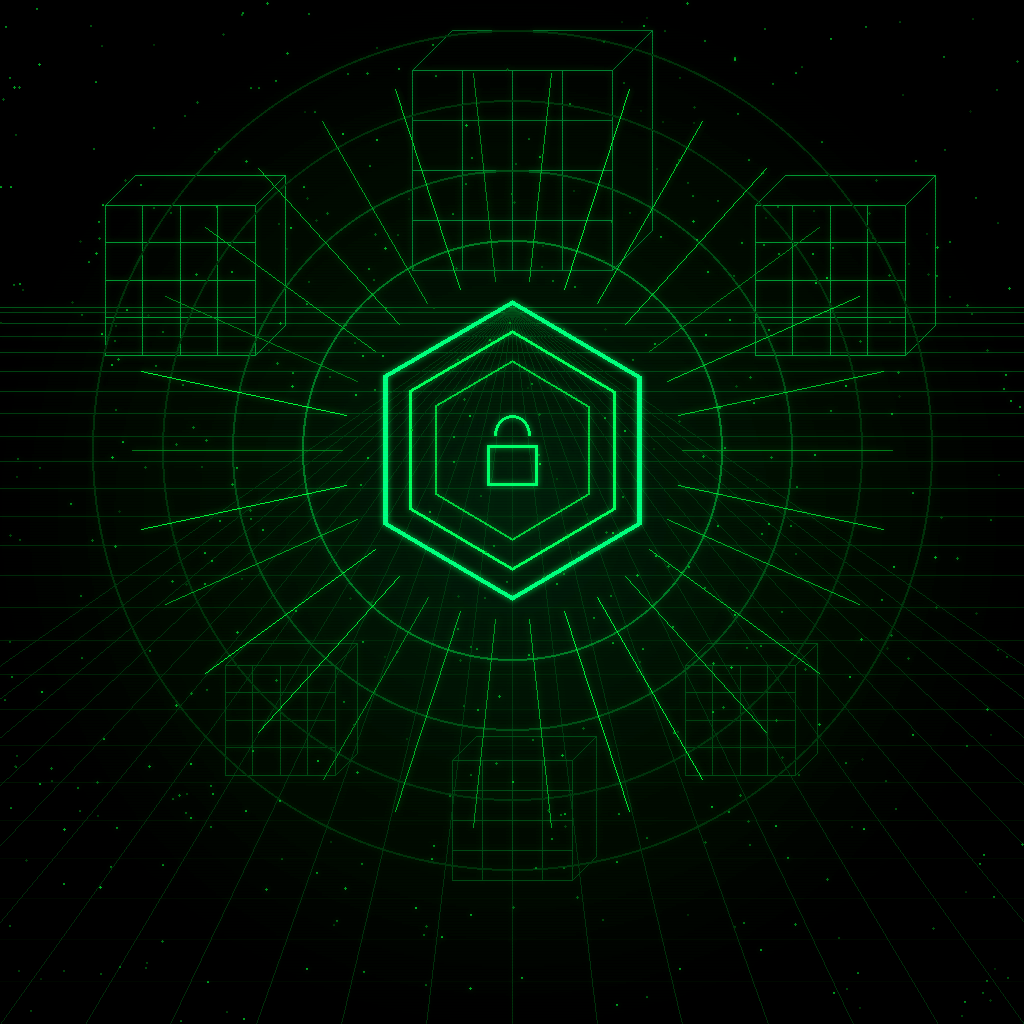
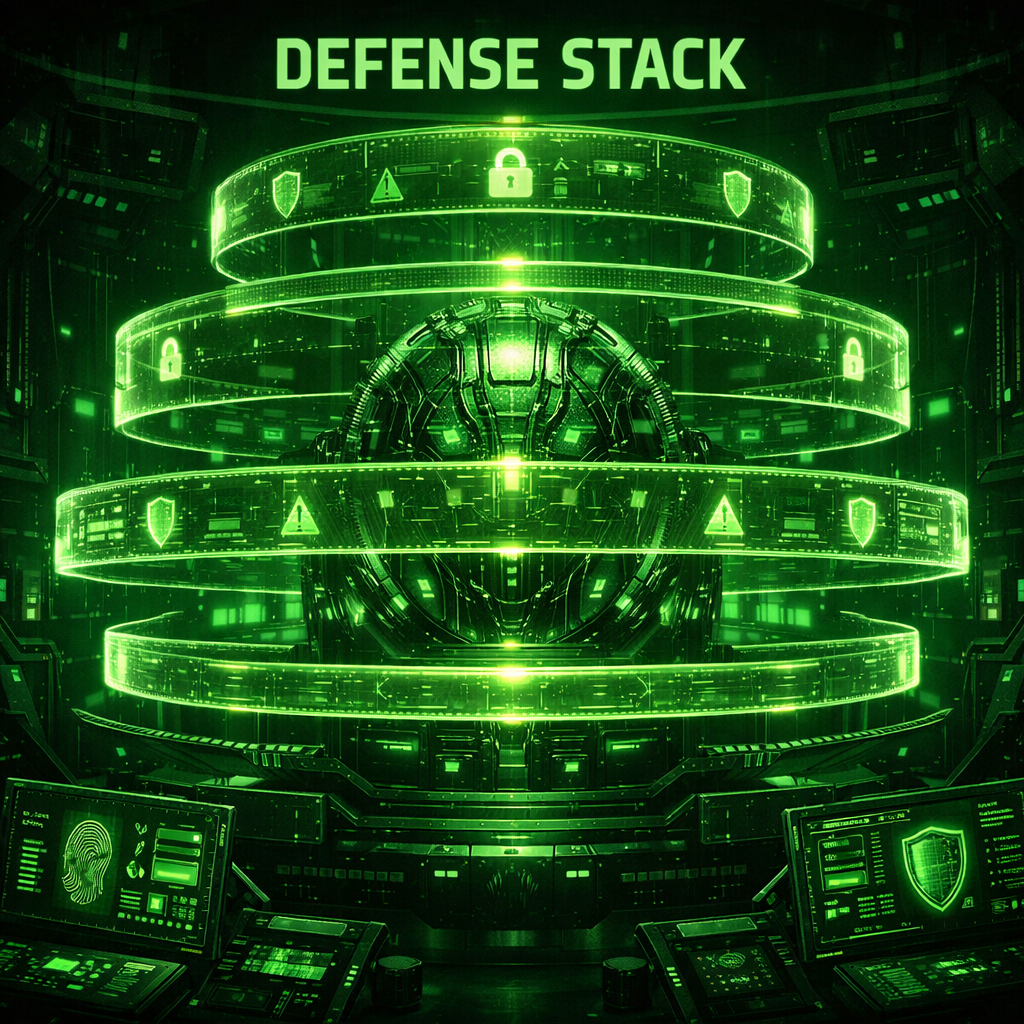
Add Axios supply chain attack, hero images, deeper paper insights
Part 9a:
- Added detailed Axios npm supply chain attack (March 2026) to Threat 3
- Added slopsquatting and package hallucination research references
- Updated Squad framework link to bradygaster/squad upstream
- Replaced hero image with user-provided ChatGPT-generated art

Part 9b:
- Added Axios attack analysis to Layer 3 (CI gates section)
- Explained what prerelease guard catches vs what workspace integrity catches
- Added OIDC provenance checking as recommended pattern
- Added StepSecurity and Malwarebytes references
- Replaced hero image with user-provided ChatGPT-generated art

diff --git a/_posts/2026-04-02-scaling-ai-part9-prime-directive.md b/_posts/2026-04-02-scaling-ai-part9-prime-directive.md
@@ -111,11 +111,17 @@ I started calling this **directive drift** — the slow, incremental weakening o
 
 The tinyllm incident hit close to home because my squad *installs packages*. It runs `npm install`, `pip install`, `dotnet add package`. It follows README instructions from GitHub repos. It reads dependency files and updates them.
 
-We've already had our own supply chain close calls. Our policy file references the [telnyx 4.87.1/4.87.2 compromise](https://socket.dev/npm/package/telnyx/alert/4.87.1) — a legitimate package that got a malicious version published. We caught the [Trivy GitHub Action supply chain attack](https://www.aquasec.com/blog/aqua-trivy-github-action-supply-chain-attack/) because we pin our Actions to commit SHAs (a pattern I described in the [security hardening post](/posts/securing-hardening-ai-agent-squad/)).
+And then, literally the week I was writing this post, [it happened again](https://www.stepsecurity.io/blog/axios-compromised-on-npm-malicious-versions-drop-remote-access-trojan). **Axios** — the most popular JavaScript HTTP client, 100 million weekly downloads — got hit. An attacker compromised a lead maintainer's npm credentials and published poisoned versions (`axios@1.14.1` and `axios@0.30.4`) that injected a hidden dependency called `plain-crypto-js`. That dependency's only job? Run a `postinstall` script that silently installs a cross-platform Remote Access Trojan on your machine — macOS, Windows, Linux.
 
-But here's what keeps me up at night: the supply chain attack doesn't have to target *my code*. It can target *my squad's judgment*. A malicious package with a plausible README that includes installation instructions containing prompt injection. An npm package with a postinstall script that modifies `.squad/routing.md`. A GitHub Action that looks helpful but quietly adds itself to the CODEOWNERS file.
+The sophistication was surgical. The attacker pre-staged a [clean decoy package](https://www.malwarebytes.com/blog/news/2026/03/axios-supply-chain-attack-chops-away-at-npm-trust) 18 hours earlier to establish publishing history. Both release branches were poisoned within 39 minutes of each other. The malware called home to the attacker's C2 server within *two seconds* of `npm install` — before npm had even finished resolving dependencies. And after execution? **The malware deleted itself and replaced its own `package.json` with a clean version.** Running `npm audit` afterward shows nothing. Inspecting `node_modules` shows nothing. It's gone.
 
-The attack surface isn't just "bad code gets into my dependency tree." It's **"bad content gets into my squad's context window."**
+Here's the kicker for AI agent teams: **the malicious versions don't appear in the project's GitHub tags.** Every legitimate axios release is published through GitHub Actions with npm's OIDC Trusted Publisher mechanism — cryptographically tied to a verified workflow. The poisoned versions bypassed that entirely, published manually via a stolen access token. No git commit, no tag, no CI run. If your agent is checking GitHub for version provenance, it would see nothing wrong. If your agent is just running `npm install` — which is what agents *do* — it would execute the RAT silently.
+
+We've already had our own supply chain close calls before this. Our policy file references the [telnyx 4.87.1/4.87.2 compromise](https://socket.dev/npm/package/telnyx/alert/4.87.1) — a legitimate package that got a malicious version published. We caught the [Trivy GitHub Action supply chain attack](https://www.aquasec.com/blog/aqua-trivy-github-action-supply-chain-attack/) because we pin our Actions to commit SHAs (a pattern I described in the [security hardening post](/posts/securing-hardening-ai-agent-squad/)).
+
+But here's what keeps me up at night: the supply chain attack doesn't have to target *my code*. It can target *my squad's judgment*. A malicious package with a plausible README that includes installation instructions containing prompt injection. An npm package with a postinstall script that modifies `.squad/routing.md`. A GitHub Action that looks helpful but quietly adds itself to the CODEOWNERS file. And now — thanks to the axios attack — we know that even the most popular, trusted packages can become trojan horses overnight.
+
+The attack surface isn't just "bad code gets into my dependency tree." It's **"bad content gets into my squad's context window."** And with research showing that LLMs hallucinate package names at rates of [5.2% for commercial models and 21.7% for open-source models](https://arxiv.org/abs/2406.10279), there's a second vector too: the agent *itself* might introduce a package that doesn't exist — and an attacker who registered that phantom name is waiting ([slopsquatting](https://arxiv.org/abs/2509.22202)).
 
 ---
 
@@ -165,7 +171,7 @@ The Prime Directive isn't paranoia. It's engineering discipline.
 
 So how do you actually defend against these threats? How do you build approval gates that agents can't bypass, reviewer protocols that prevent self-approval loops, and CI guards that catch directive drift before it reaches main?
 
-That's [Part II](/posts/scaling-ai-part9b-prime-directive/). And it's not theoretical — I'll walk through the concrete patterns we've built, including contributions from [Dina Berry](https://github.com/diberry) who's been adding CI gates to the Squad framework that specifically target these threats. Test count guards that prevent agents from silently deleting tests. Hard-gate archival enforcement. Workspace integrity checks. Plus the reviewer lockout protocol — where a rejected artifact can't be revised by the same agent who wrote it. The kind of boring, beautiful infrastructure that makes the exciting stuff safe.
+That's [Part II](/posts/scaling-ai-part9b-prime-directive/). And it's not theoretical — I'll walk through the concrete patterns we've built, including contributions to the [Squad framework](https://github.com/bradygaster/squad) CI gates that specifically target these threats. Test count guards that prevent agents from silently deleting tests. Hard-gate archival enforcement. Workspace integrity checks. Plus the reviewer lockout protocol — where a rejected artifact can't be revised by the same agent who wrote it. The kind of boring, beautiful infrastructure that makes the exciting stuff safe.
 
 See you tomorrow.
 
@@ -175,4 +181,4 @@ See you tomorrow.
 
 ---
 
-*The code, playbooks, and patterns described in this post are open source as part of the [Squad framework](https://github.com/tamirdresher/squad).*
+*The code, playbooks, and patterns described in this post are open source as part of the [Squad framework](https://github.com/bradygaster/squad).*

diff --git a/_posts/2026-04-03-scaling-ai-part9b-prime-directive.md b/_posts/2026-04-03-scaling-ai-part9b-prime-directive.md
@@ -192,6 +192,10 @@ Three CI gates in one:
 
 Why does the prerelease guard matter? Because AI agents are aggressive optimizers. When an agent sees a newer version of a package, it wants to use it — even if that version is a pre-release. This is a concrete supply chain risk: attackers can publish a `-beta` version with malicious code, knowing that an AI coding agent might eagerly adopt it.
 
+But here's the sobering reality check: **the prerelease guard wouldn't have caught the axios attack.** The poisoned `axios@1.14.1` was a full release version, not a prerelease — it passed every version-based heuristic. What *would* have caught it? The **workspace integrity check**. The attack injected `plain-crypto-js@4.2.1` as a new dependency that never existed in the legitimate codebase. A lockfile diff check would have flagged that a *brand new* dependency appeared — one that's never been imported anywhere in the source code. That's why you need the full CI gate stack, not just one check. Each gate catches a different failure mode.
+
+The axios incident ([March 2026](https://www.stepsecurity.io/blog/axios-compromised-on-npm-malicious-versions-drop-remote-access-trojan)) is a case study in why. The attacker compromised a maintainer's credentials, published two poisoned versions that injected a self-destructing RAT via `postinstall`, and the malicious versions didn't even appear in GitHub tags. The forensic signal? The legitimate releases used npm's OIDC Trusted Publisher (published by GitHub Actions), but the malicious ones were published manually — no `trustedPublisher` field, no `gitHead`. If your CI pipeline checks for OIDC provenance on critical dependencies, you'd catch it. If not... you're running `npm install` and hoping for the best.
+
 ### Concurrency Controls
 
 > *[PR #705](https://github.com/bradygaster/squad/pull/705) — "Concurrency controls for 5 workflows"* (merged)
@@ -552,6 +556,8 @@ The remaining edge cases? That's what keeps me building.
 **Industry sources:**
 
 - [Netlify AX (Agent Experience)](https://www.netlify.com/agent-experience/) — The concept that inspired the async approval gate pattern.
+- [Axios Supply Chain Attack Analysis (StepSecurity)](https://www.stepsecurity.io/blog/axios-compromised-on-npm-malicious-versions-drop-remote-access-trojan) — Detailed forensics on the March 2026 axios npm compromise, including OIDC provenance bypass and self-destructing malware.
+- [Axios Attack: npm Trust (Malwarebytes)](https://www.malwarebytes.com/blog/news/2026/03/axios-supply-chain-attack-chops-away-at-npm-trust) — Broader analysis of the axios incident's implications for the npm ecosystem.
 - [Squad Framework Reviewer Protocol](https://bradygaster.github.io/squad/features/reviewer-protocol/) — Full documentation on the lockout mechanism described in Layer 1.
 - [Squad on AKS](https://github.com/tamirdresher/squad-on-aks) — The pod-per-agent experiment with workload identity isolation.
 - [Squad Framework](https://github.com/bradygaster/squad) — The open-source framework behind these patterns. CI gate PRs linked throughout the post.
